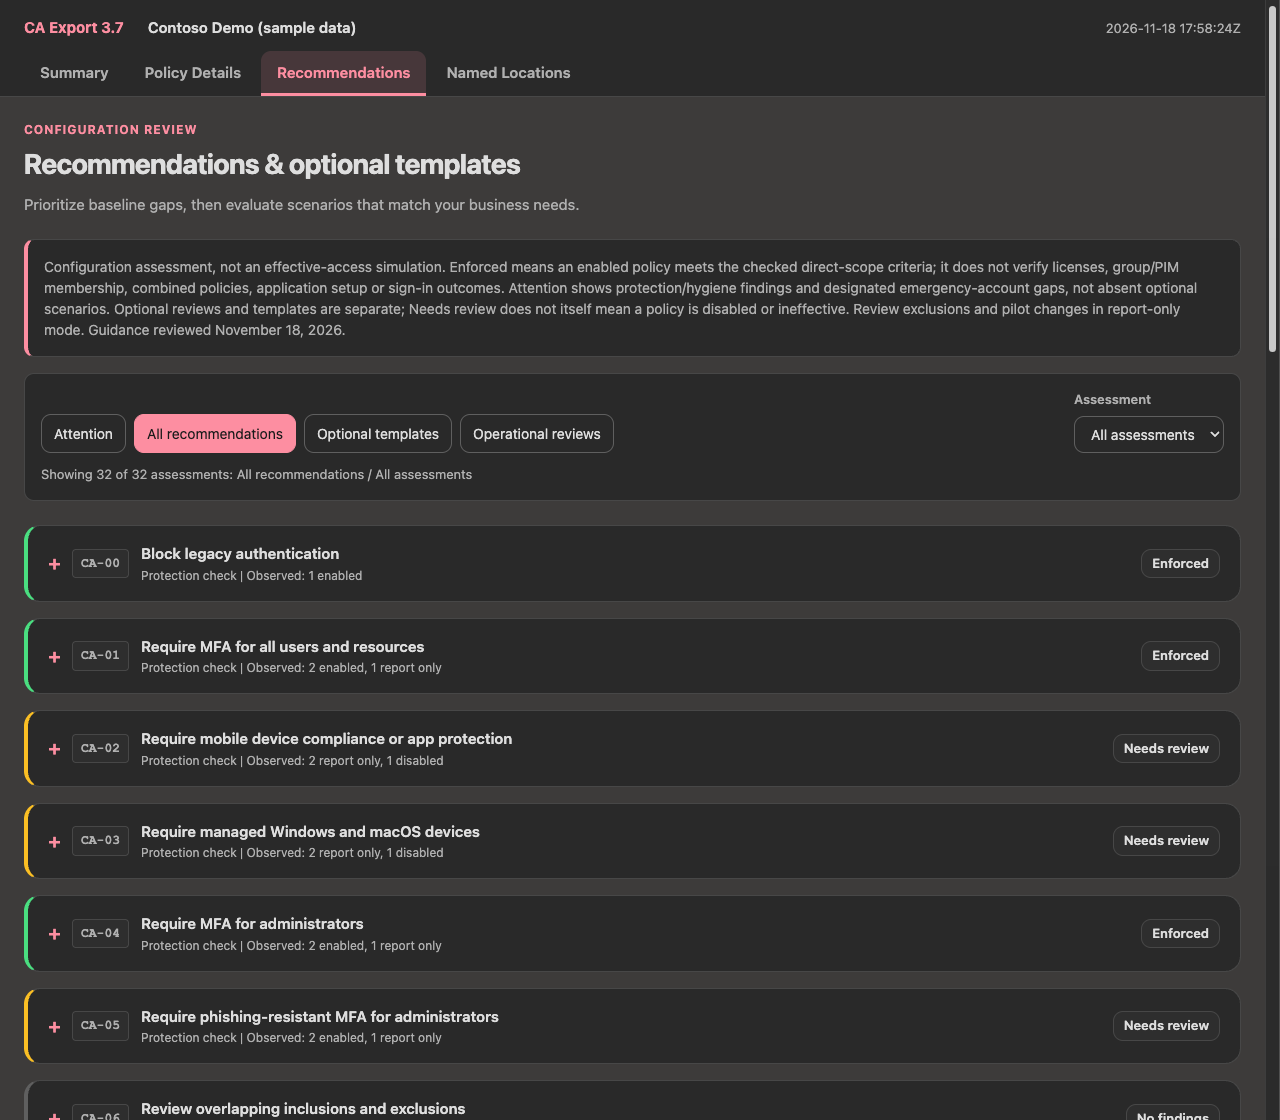
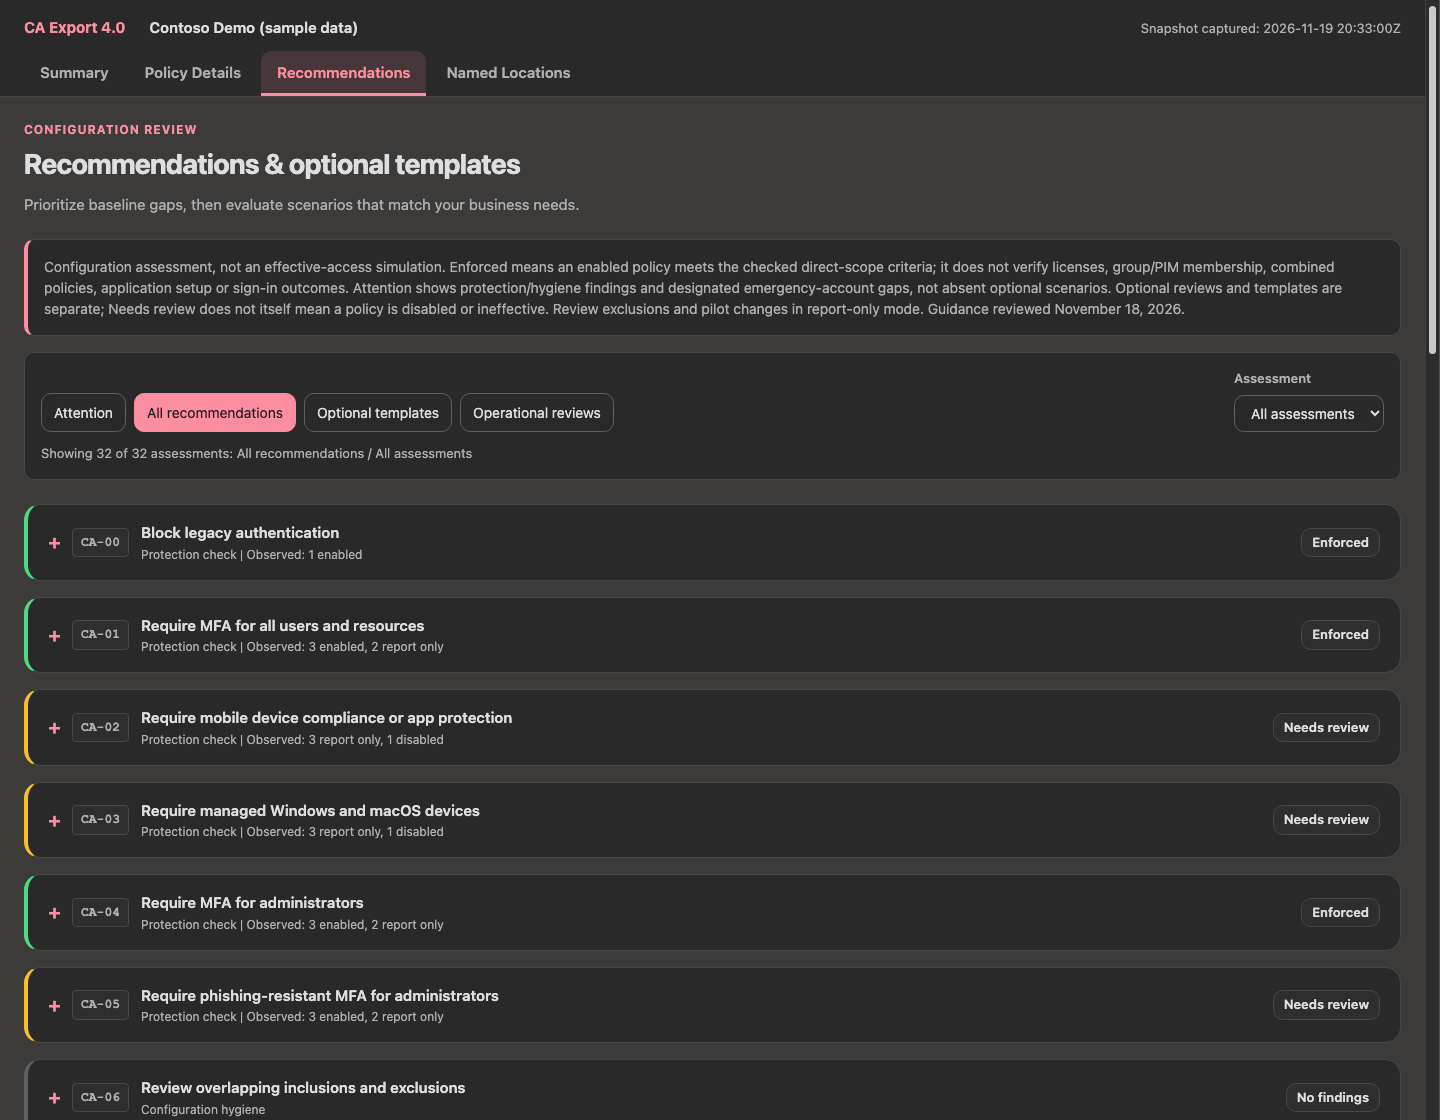
Refresh version 4.0 screenshots with synthetic sample data
Regenerate the five report captures and add naming-hint and assignment-pattern examples. Update README captions and retain the sample-only disclaimer. Validate all seven captures for exporter version, content, layout, and browser errors.

Copilot-Session: a3dfddda-c052-4ee6-b1c8-b132c8f2d80b

diff --git a/README.md b/README.md
@@ -58,7 +58,7 @@ Neither script changes tenant policies. Existing portable snapshots and legacy r
 
 ## Screenshots — sample data only
 
-These pre-release development captures use **Contoso Demo (sample data)**. They may display development version labels and do not show the final 4.0 naming hints, NON-BLOCKING labels or comparison controls. All tenant-specific information was generated from scratch with mocked Graph responses, not copied or anonymized from a real tenant. Account/group names and customer-specific IDs are fictional; network prefixes are reserved documentation ranges. Built-in Microsoft resource/role identifiers are public constants.
+These captures were generated with the **4.0 exporter** from a synthetic **Contoso Demo (sample data)** snapshot containing 14 policies and four named locations. All tenant-specific information was generated from scratch, not copied or anonymized from a real tenant. Account/group names and customer-specific IDs are fictional; network prefixes are reserved documentation ranges. Built-in Microsoft resource/role identifiers are public constants.
 
 The sample policies illustrate report behavior, **not a recommended production baseline**. Both light and dark themes are shown.
 
@@ -70,9 +70,27 @@ The sample policies illustrate report behavior, **not a recommended production b
 </details>
 
 <details>
-<summary><strong>Policy Details</strong> — sample assignments, deployment tags, and contained table scrolling</summary>
+<summary><strong>Policy Details</strong> — assignment tokens, naming hints, and comparison controls</summary>
 
-![Sample Policy Details tab with resolved example identities and deployment-state tags](./images/report-policies.png)
+![Version 4.0 Policy Details with resolved sample assignment tokens, deployment-state tags, naming hints, and comparison controls](./images/report-policies.png)
+
+</details>
+
+<details>
+<summary><strong>Assignment patterns</strong> — matching group includes/excludes across policies</summary>
+
+Clicking **Sample - Employees** and selecting **Show matching policies only** highlights three included matches with solid borders and one excluded match with a dashed border. These are direct-assignment matches, not group-membership expansion or effective-access results.
+
+![Sample group comparison showing four matching policies, three included matches, and one excluded match](./images/report-assignment-patterns.png)
+
+</details>
+
+<details>
+<summary><strong>Naming hints</strong> — misleading Block/MFA names and optional suggestions</summary>
+
+The fictional review examples show a name claiming **Block** without a Block grant and a name claiming **Require MFA** with an OR alternative. **NON-BLOCKING** means no Block grant is configured; it does not mean access is granted. Suggested names are heuristics, not automatic renames.
+
+![Expanded naming hints and suggested names beside NON-BLOCKING grants for two fictional name/configuration mismatches](./images/report-naming-hints.png)
 
 </details>
 
